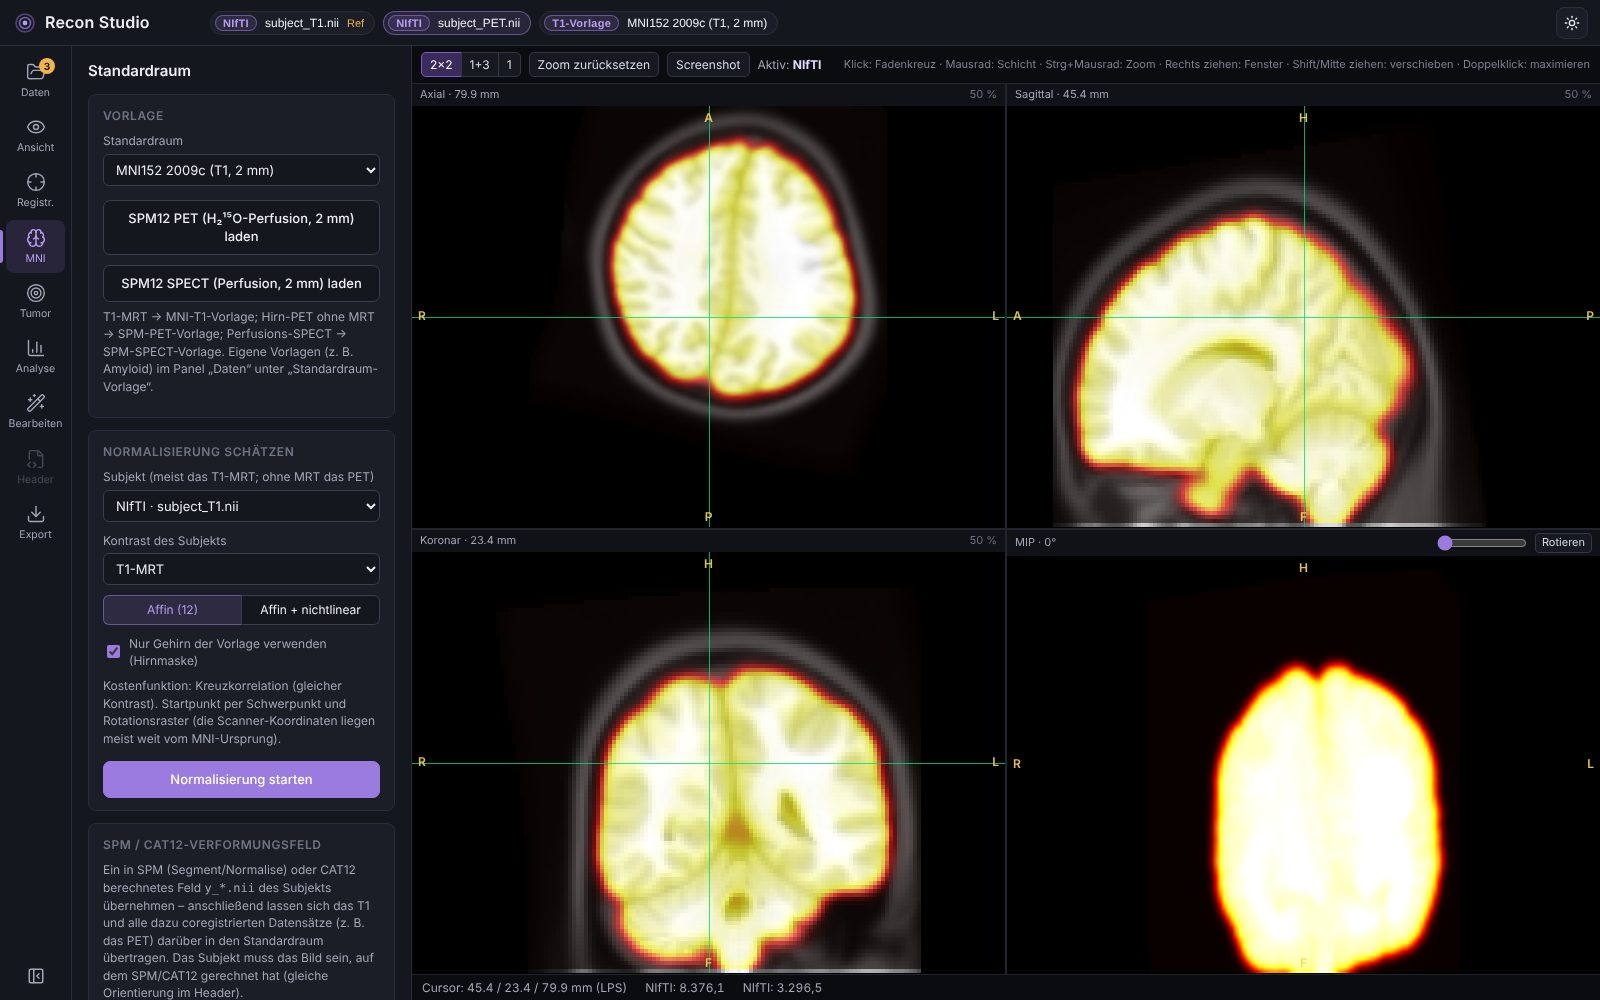
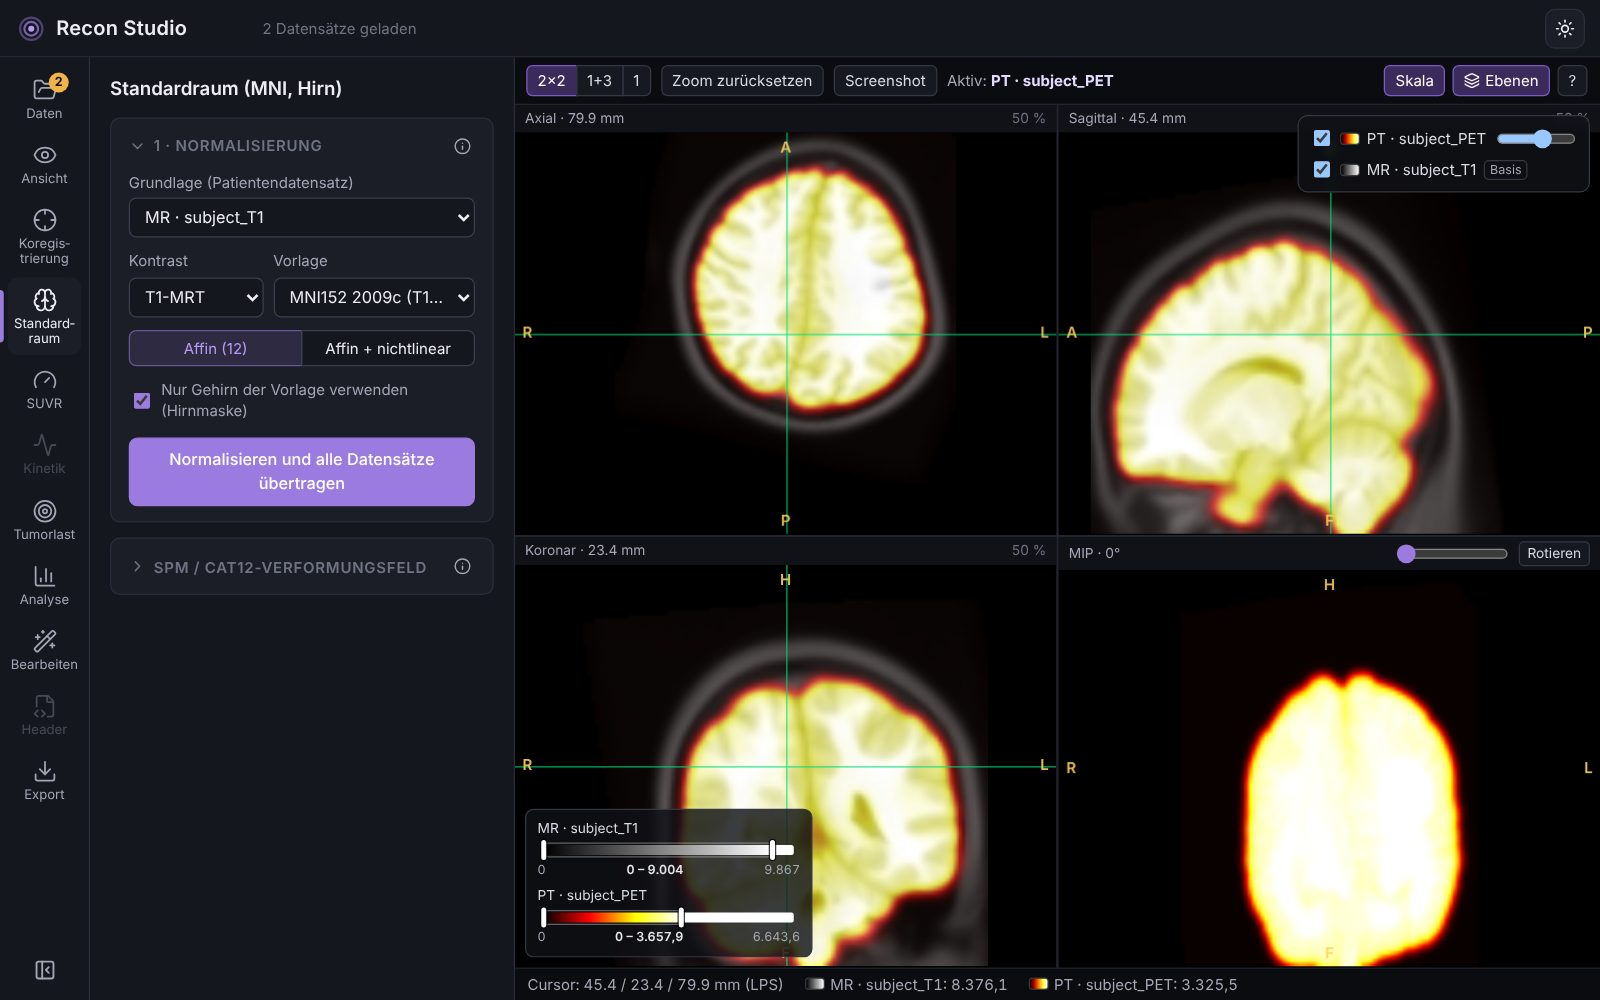
Handbuch aktualisiert (Koregistrierung, Patient-ID, Kinetik über Standardraum, Tipps); neue Screenshots Standardraum; Kontrast-/Vorlagenauswahl nicht mehr abgeschnitten
Claude-Session: https://claude.ai/code/session_0193t6cZ8YpywZQWotSSRSJ4

diff --git a/src/ui/NormalizationPanel.tsx b/src/ui/NormalizationPanel.tsx
@@ -92,7 +92,7 @@ export function NormalizationPanel(props: NormalizationPanelProps) {
             ))}
           </select>
         </label>
-        <div className="inline-fields">
+        <div className="norm-fields">
           <label className="field">
             Kontrast
             <select value={props.subjectKind} disabled={running} onChange={(e) => props.onSubjectKindChange(e.target.value as TemplateKind)}>

diff --git a/src/App.css b/src/App.css
@@ -2382,3 +2382,9 @@ tr.focus-row td {
   background: var(--accent-bg);
   outline: none;
 }
+
+.norm-fields {
+  display: grid;
+  grid-template-columns: minmax(0, 2fr) minmax(0, 3fr);
+  gap: 8px;
+}

diff --git a/MANUAL.md b/MANUAL.md
@@ -26,7 +26,7 @@ Beispieldaten (keine Patientendaten).
 
 ![Startbildschirm](docs/images/01-start.jpg)
 
-- **Linke Leiste**: die Arbeitsbereiche *Daten, Ansicht, Registrierung, Standardraum, Centiloid & SUVR (SUVR), Kinetik,
+- **Linke Leiste**: die Arbeitsbereiche *Daten, Ansicht, Koregistrierung, Standardraum, Centiloid & SUVR (SUVR), Kinetik,
   Tumorlast, Analyse, Bearbeiten, Header, Export*. Ein Klick auf den aktiven Bereich klappt das Seitenpanel ein und aus
   (ebenso das Symbol unten links). Ausgegraute Bereiche nennen im Tooltip den Grund (z. B. „Header nur für DICOM“).
   Beim Wechsel des Bereichs bleibt alles erhalten – laufende Berechnungen, Ergebnisse, aufgeklappte Karten.
@@ -36,7 +36,7 @@ Beispieldaten (keine Patientendaten).
   **Karten** lassen sich per Klick auf die Überschrift auf- und zuklappen; rechts steht ihr Status (z. B.
   *✓ korrigiert*, *läuft*, *25 Frames*). Erledigte Schritte (z. B. Bewegungskorrektur, Normalisierung) klappen von
   selbst zu.
-- **Kopfzeile**: die **Aktivitätsanzeige** – laufende Berechnungen (Laden, Registrierung, Normalisierung,
+- **Kopfzeile**: die **Aktivitätsanzeige** – laufende Berechnungen (Laden, Koregistrierung, Normalisierung,
   CT-Segmentierung, Kinetik, Centiloid, Export …) mit Fortschritt, kurz *fertig* nach Abschluss, Fehler mit ⚠.
   Ein Klick öffnet den zuständigen Bereich (dort lässt sich abbrechen). Ohne laufende Aufgabe steht dort die Zahl der
   geladenen Datensätze. Rechts oben: helles/dunkles Design.
@@ -149,10 +149,11 @@ Bereich **Ansicht** – eine Karte je angezeigter Ebene (oben = oberste Ebene):
 1. **Farbtabelle**: Graustufen, invertiert, Hot, DaT, Blau, Regenbogen, Atlas-Regionen (auch per Rechtsklick auf
    die Farbskala im Viewer).
 2. **Fenster**: *Min*/*Max* eintragen, *Auto*, oder Presets (PET: SUV 0–5/10/15; CT: Weichteil, Lunge, Knochen,
-   Gehirn, Leber). Alternativ im Bild mit der rechten Maustaste ziehen.
+   Gehirn, Leber). Alternativ im Bild mit der rechten Maustaste ziehen oder die Griffe der Farbskala im Viewer
+   verschieben ([Abschnitt 1](#1-oberfläche)).
 3. **Deckkraft** (Overlays) und **anzeigen** (Häkchen = Ebene ein/aus).
 4. *↑ nach oben* / *↓ nach unten*: Reihenfolge; *als Basis*: Ebene wird Referenz; *aus Ansicht entfernen*.
-5. **Fusion exportieren** (unten): die sichtbaren Ebenen so, wie sie angezeigt werden, als RGB-Datensatz –
+5. **Fusion exportieren** (Karte unten, aufklappen): die sichtbaren Ebenen so, wie sie angezeigt werden, als RGB-Datensatz –
    DICOM Secondary Capture (ZIP) oder NIfTI RGB, im Raster der Basis oder axial.
 
 Label-Ebenen werden ohne Interpolation (nächster Nachbar) dargestellt.
@@ -315,7 +316,10 @@ Ebenenkarte eines dynamischen Datensatzes den Regler **Zeit**:
    - Dann **Frames in den MNI-Raum übertragen**.
    - Das Mittelbild wird rigide auf das T1 und das T1 affin auf MNI152 2009c registriert (wie bei Centiloid). Danach
      werden alle Frames übertragen.
-   - Es entsteht ein dynamischer Datensatz `… · MNI152 …`.
+   - Es entsteht ein dynamischer Datensatz `… · MNI`.
+   - **Alternative:** im Bereich **Standardraum** normalisieren (Grundlage T1, PET oder CT, [Abschnitt 6](#6-standardraum-mni-atlas-und-suvr)).
+     Dort wird die dynamische Serie mit allen anderen Datensätzen Frame für Frame übertragen; Schritt 3 entfällt dann,
+     und die Serie im MNI-Raum ist unter *1 · Dynamische Serie* direkt wählbar.
 5. **4 · Referenzregion und Modell**:
    1. Atlas laden bzw. wählen (*CerebrA-Atlas laden*; AAL3 über den Bereich *Analyse*).
    2. **Referenzregion** wählen: Kleinhirnrinde (Standard), Kleinhirn gesamt oder Pons.
@@ -379,7 +383,7 @@ Die Frames sollten zerfallskorrigiert sein; bei nicht korrigierten DICOM-Daten w
 
 ![Organe und Regionsliste](docs/images/21-ct-organe.jpg)
 
-4. **Regionsliste**: Suche, Häkchen blenden Regionen ein/aus (*alle* / *keine* / *nur Treffer*), Klick auf eine Region
+4. **Regionsliste** (Karte *Regionen* unter dem Tumorlast-Ergebnis bzw. in der Ebenenkarte im Bereich *Ansicht*): Suche, Häkchen blenden Regionen ein/aus (*alle* / *keine* / *nur Treffer*), Klick auf eine Region
    setzt das Fadenkreuz hinein; Volumen je Region in ml.
 5. Die Organe stehen danach in Tumorlast und Label-Analyse zur Verfügung und lassen sich als NIfTI exportieren
    (Regionsnamen bleiben beim Wiederladen erhalten).
@@ -508,6 +512,7 @@ Bereich **Export** (aktiver Datensatz):
    - *Als DICOM speichern* – bei DICOM-Quellen mit Original-Header (alle Elemente byte-genau, neue UIDs, ImageType
      DERIVED); nach Crop/Drehung/Resampling als neue Serie aus Vorlage; Serien als ZIP.
    - *Als NIfTI speichern* – mit Orientierung (sform/qform); Labelbilder mit Regionsnamen im Header.
+   - Ist im Bereich *Daten* eine **Patient-ID** eingetragen, beginnen alle NIfTI- und CSV-Dateien mit `<ID>_`.
    - **Anonymisierung** (optional): Patienten-, Geräte- und Freitextangaben entfernen, UIDs ersetzen; Zeiten und
      optional Gewicht/Größe bleiben für die SUV-Berechnung erhalten.
 2. **In Zielraum exportieren / resampeln**:
@@ -533,7 +538,10 @@ Bereich **Export** (aktiver Datensatz):
   (Werte dann in Bq/ml bzw. Originaleinheiten).
 - **Labels werden nicht erkannt** oder heißen *Region n*: in der Label-Analyse Namen zuweisen oder Tabelle laden;
   Dateien aus aktuellen Versionen von Recon Studio speichern die Namen selbst.
-- **Registrierung weit daneben** (Daten aus verschiedenen Untersuchungen): *Grobsuche* aktivieren, ggf. *Affin* wählen.
+- **Koregistrierung weit daneben** (Daten aus verschiedenen Untersuchungen): *Grobsuche* aktivieren, ggf. *Affin* wählen.
+- **Normalisierung mit CT schlägt fehl**: nur ein Kopf-CT verwenden (Ganzkörper-CT vorher auf den Kopf zuschneiden);
+  bei Hirn-PET/CT ist meist das T1 oder das PET die bessere Grundlage.
+- **Seite neu geladen – alles weg?** Sitzungen regelmäßig als Projekt speichern (*Daten* → *Projekt speichern*).
 - **Hirnatlas liefert keine Regionen**: Der Datensatz muss im MNI-Raum liegen (Abschnitt 6).
 - **Lange Dateinamen** im Panel: Schlagworte vergeben – sie ersetzen die Namen in Auswahllisten weitgehend.
 - **Datensatz nach dem Laden nicht sichtbar**: Er wurde absichtlich nicht eingeblendet (andere Region, zweites PET …) –
